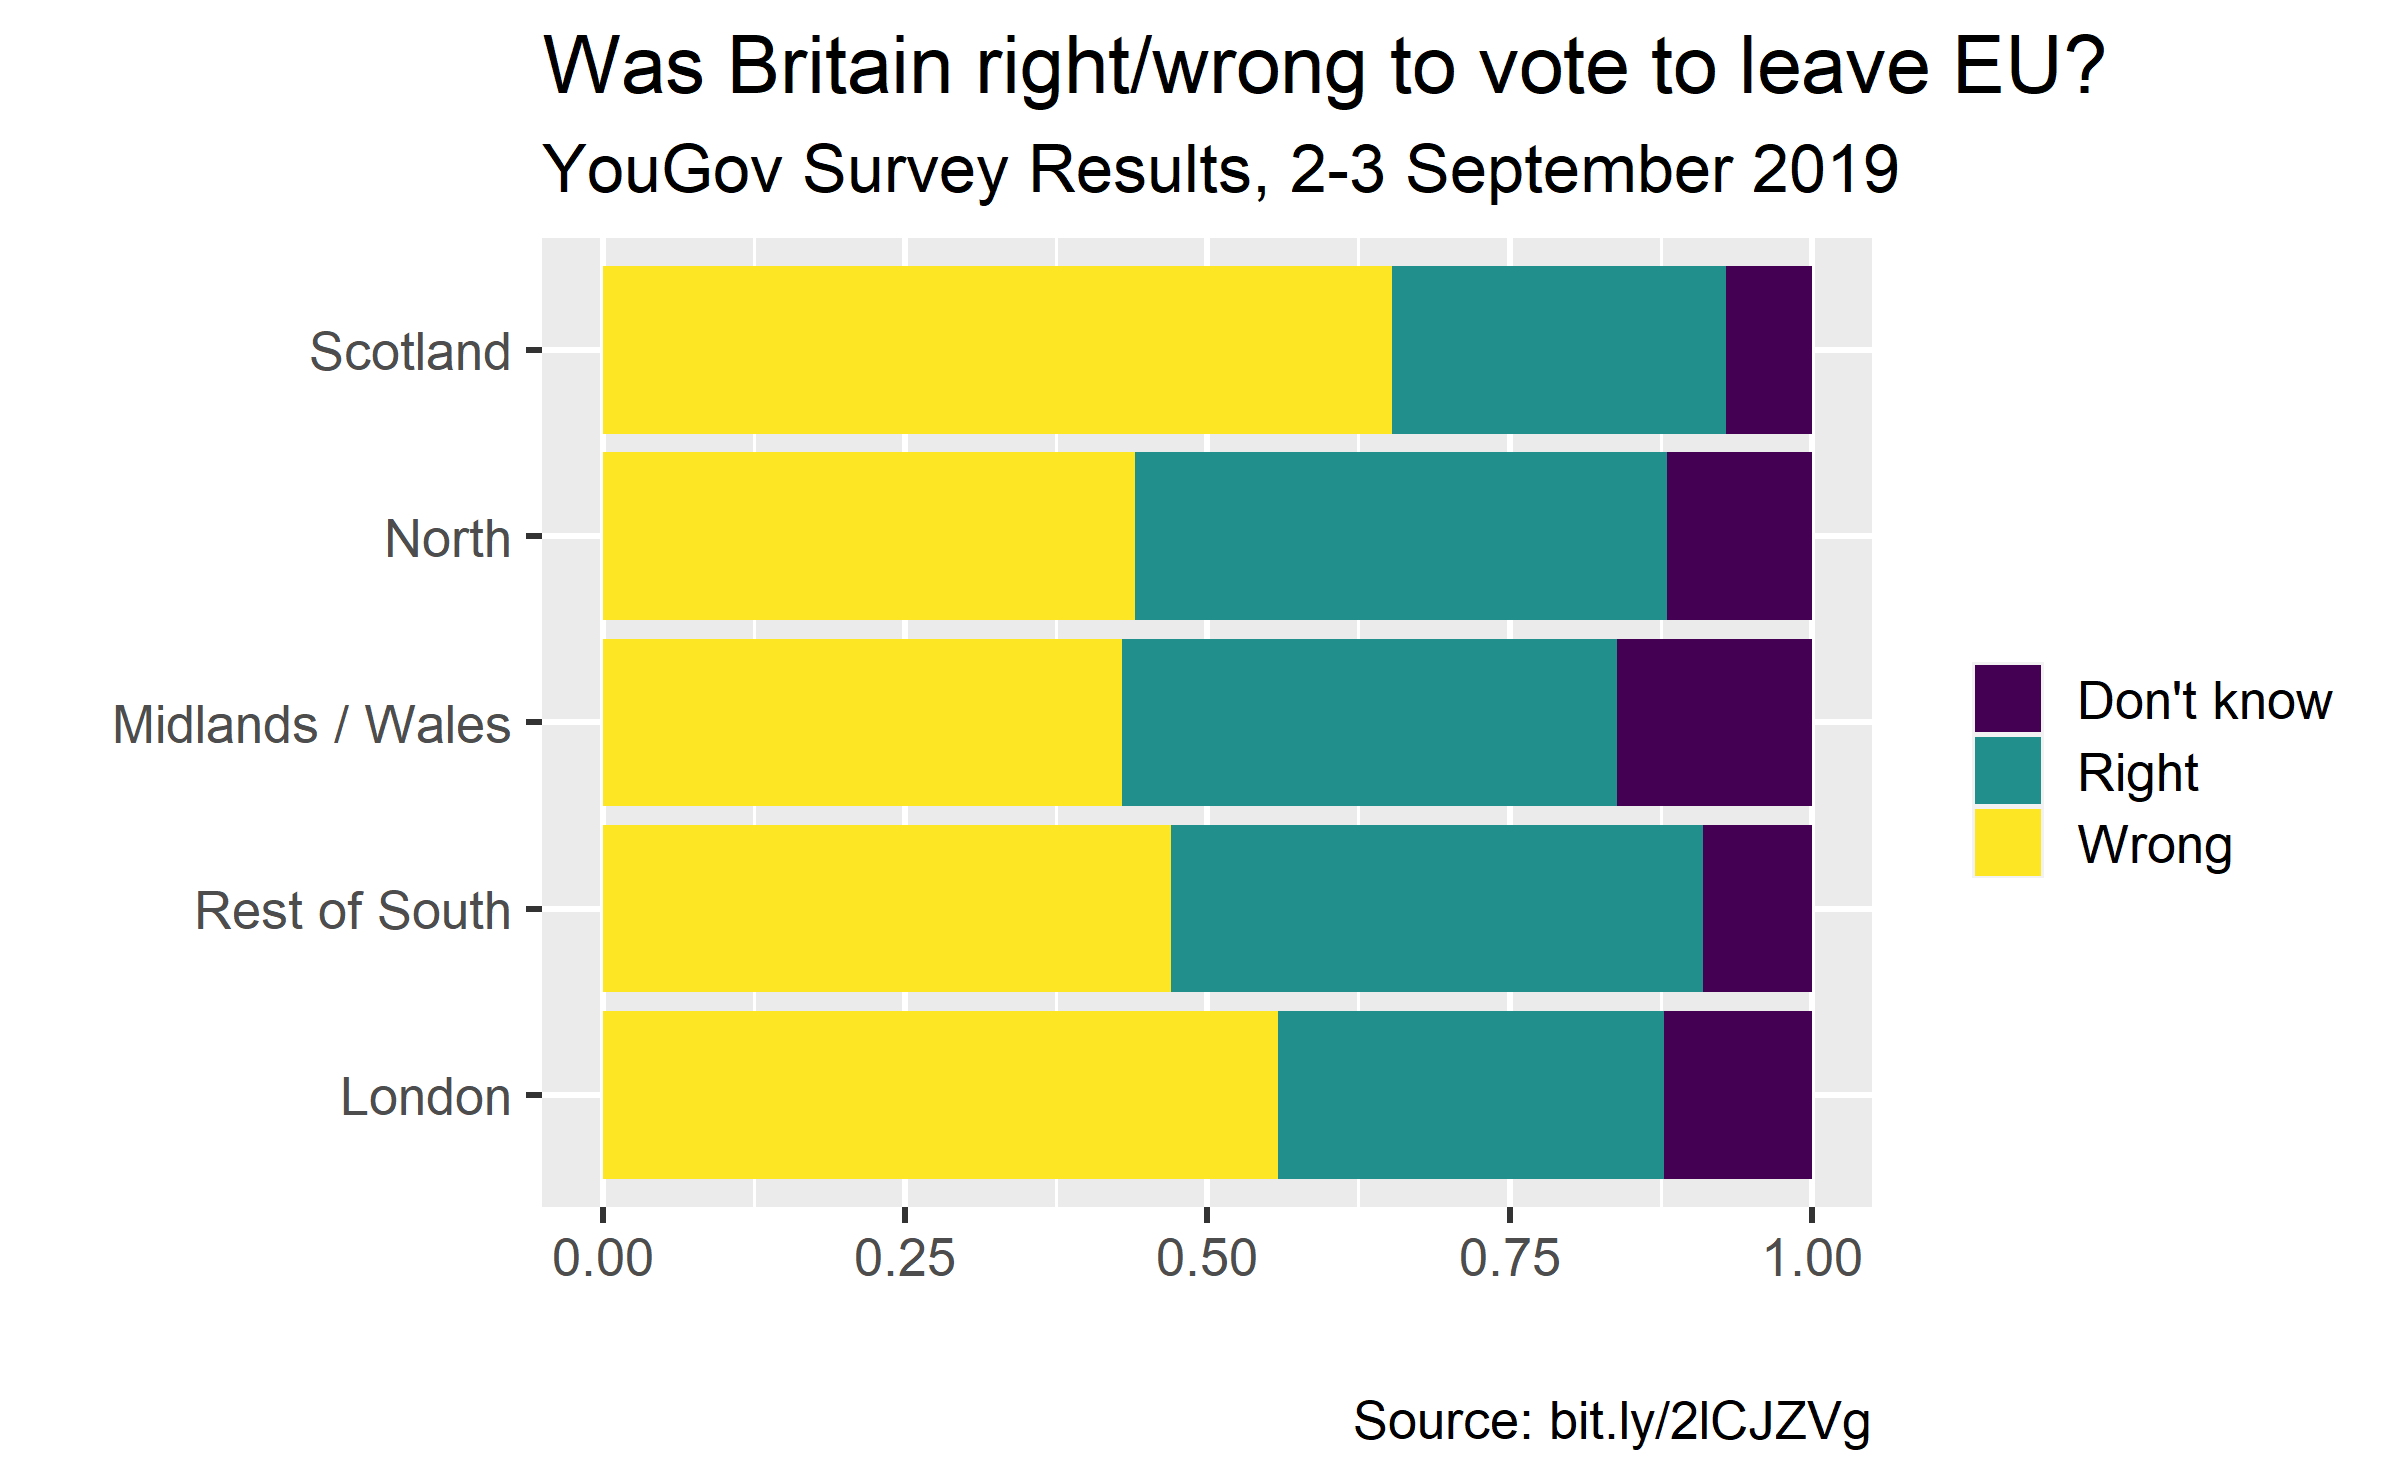
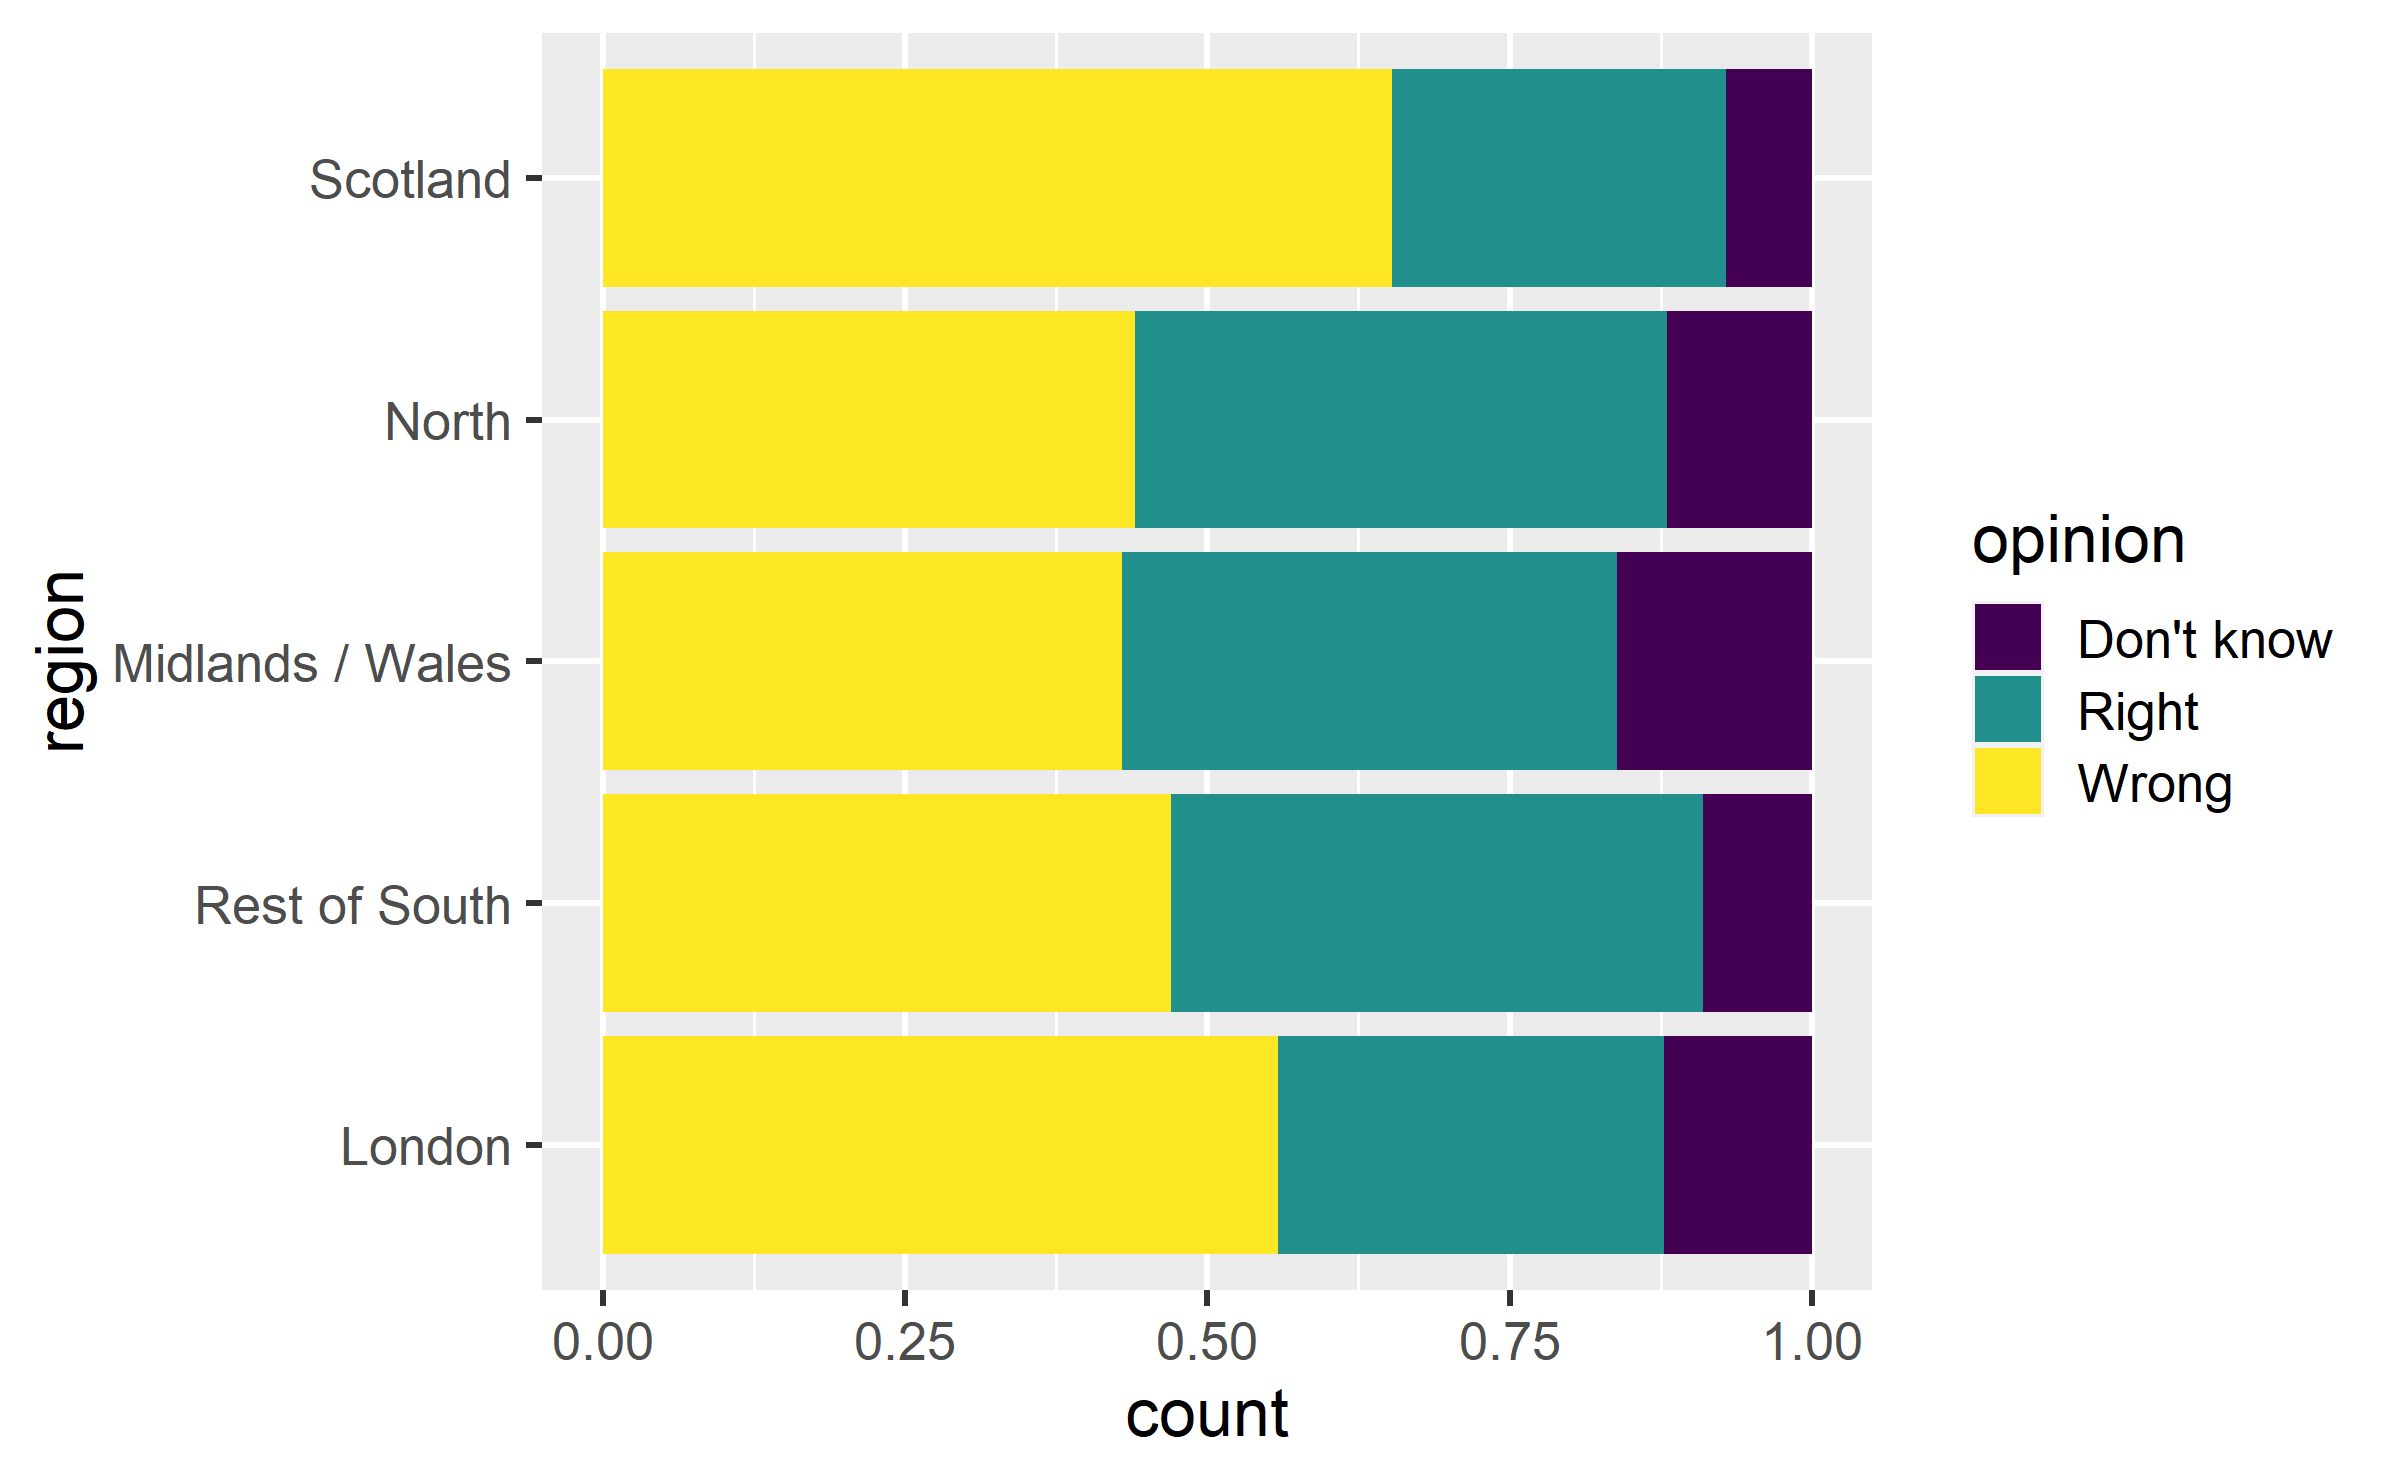
tidy up

diff --git a/d13_goodviz/d13_goodviz.html b/d13_goodviz/d13_goodviz.html
@@ -68,7 +68,7 @@ class: middle
 
 ## Tell a story
 
-&lt;img src="img/time-series.story.png" width="80%" style="display: block; margin: auto;" /&gt;
+&lt;img src="img/time-series-story.png" width="80%" style="display: block; margin: auto;" /&gt;
 
 .footnote[
 Credit: Angela Zoss and Eric Monson, Duke DVS
@@ -479,26 +479,130 @@ ggplot(brexit, aes(y= region, fill = opinion)) +
 &lt;img src="d13_goodviz_files/figure-html/unnamed-chunk-23-1.png" width="85%" style="display: block; margin: auto;" /&gt;
 
 ---
+## Manually choose colors when needed
+
+
+
+
+```r
+ggplot(brexit, aes(y = opinion, fill = opinion)) +
+  geom_bar() +
+  facet_wrap(~region, nrow = 1, labeller = label_wrap_gen(width = 12)) +
+  guides(fill = FALSE) +
+  labs(title = "Was Britain right/wrong to vote to leave EU?",
+       subtitle = "YouGov Survey Results, 2-3 September 2019",
+       caption = "Source: bit.ly/2lCJZVg",
+       x = NULL, y = NULL) +
+* scale_fill_manual(values = c(
+*   "Wrong" = "red",
+*   "Right" = "green",
+*   "Don't know" = "gray"
+* ))
+```
+
+&lt;img src="d13_goodviz_files/figure-html/red-green-1.png" width="60%" style="display: block; margin: auto;" /&gt;
+
+
+
+---
+
+## Choosing better colors
+
+.center.large[
+[colorbrewer2.org](https://colorbrewer2.org/)
+]
+
+&lt;img src="img/color-brewer.png" width="60%" style="display: block; margin: auto;" /&gt;
+
+---
+
+
 
 ## Viridis scale works well with ordinal data 
 
 
 ```r
-ggplot(brexit, aes(x = region, fill = opinion)) +
+ggplot(brexit, aes(y = region, fill = opinion)) +
   geom_bar(position = "fill") +
-  coord_flip() +
   scale_fill_viridis_d()
 ```
 
-&lt;img src="d13_goodviz_files/figure-html/unnamed-chunk-24-1.png" width="85%" style="display: block; margin: auto;" /&gt;
+&lt;img src="d13_goodviz_files/figure-html/unnamed-chunk-25-1.png" width="85%" style="display: block; margin: auto;" /&gt;
 
 ---
 
 ## Clean up labels
 
-&lt;img src="d13_goodviz_files/figure-html/unnamed-chunk-25-1.png" width="85%" style="display: block; margin: auto;" /&gt;
+&lt;img src="d13_goodviz_files/figure-html/unnamed-chunk-26-1.png" width="85%" style="display: block; margin: auto;" /&gt;&lt;img src="d13_goodviz_files/figure-html/unnamed-chunk-26-2.png" width="85%" style="display: block; margin: auto;" /&gt;
+
+
+
+
+
+## Use better colors
+
+
+
+
+```r
+ggplot(brexit, aes(y = opinion, fill = opinion)) +
+  geom_bar() +
+  facet_wrap(~region, nrow = 1, labeller = label_wrap_gen(width = 12)) +
+  guides(fill = FALSE) +
+  labs(title = "Was Britain right/wrong to vote to leave EU?",
+       subtitle = "YouGov Survey Results, 2-3 September 2019",
+       caption = "Source: bit.ly/2lCJZVg",
+       x = NULL, y = NULL) +
+  scale_fill_manual(values = c(
+*   "Wrong" = "#ef8a62",
+*   "Right" = "#67a9cf",
+*   "Don't know" = "gray"
+  ))
+```
+
+&lt;img src="d13_goodviz_files/figure-html/color-brewer-1.png" width="60%" style="display: block; margin: auto;" /&gt;
+
 
 ---
+
+## Select theme
+
+
+
+
+```r
+ggplot(brexit, aes(y = opinion, fill = opinion)) +
+  geom_bar() +
+  facet_wrap(~region, nrow = 1, labeller = label_wrap_gen(width = 12)) +
+  guides(fill = FALSE) +
+  labs(title = "Was Britain right/wrong to vote to leave EU?",
+       subtitle = "YouGov Survey Results, 2-3 September 2019",
+       caption = "Source: bit.ly/2lCJZVg",
+       x = NULL, y = NULL) +
+  scale_fill_manual(values = c("Wrong" = "#ef8a62",
+                               "Right" = "#67a9cf",
+                               "Don't know" = "gray")) +
+* theme_minimal()
+```
+
+&lt;img src="d13_goodviz_files/figure-html/theme-1.png" width="60%" style="display: block; margin: auto;" /&gt;
+
+
+---
+
+
+
+
+.your-turn[
+### .hand[Your turn!]
+.midi[
+- RStudio Cloud &gt; `AE 07 - Brexit + Telling stories with dataviz` &gt; `brexit.Rmd`. 
+- Change the visualization in three different ways to tell slightly different stories with it each time.
+]
+]
+
+---
+
 # Sources
 
 - Mine Çetinkaya-Rundel's Data Science in a Box([link](https://datasciencebox.org/))
